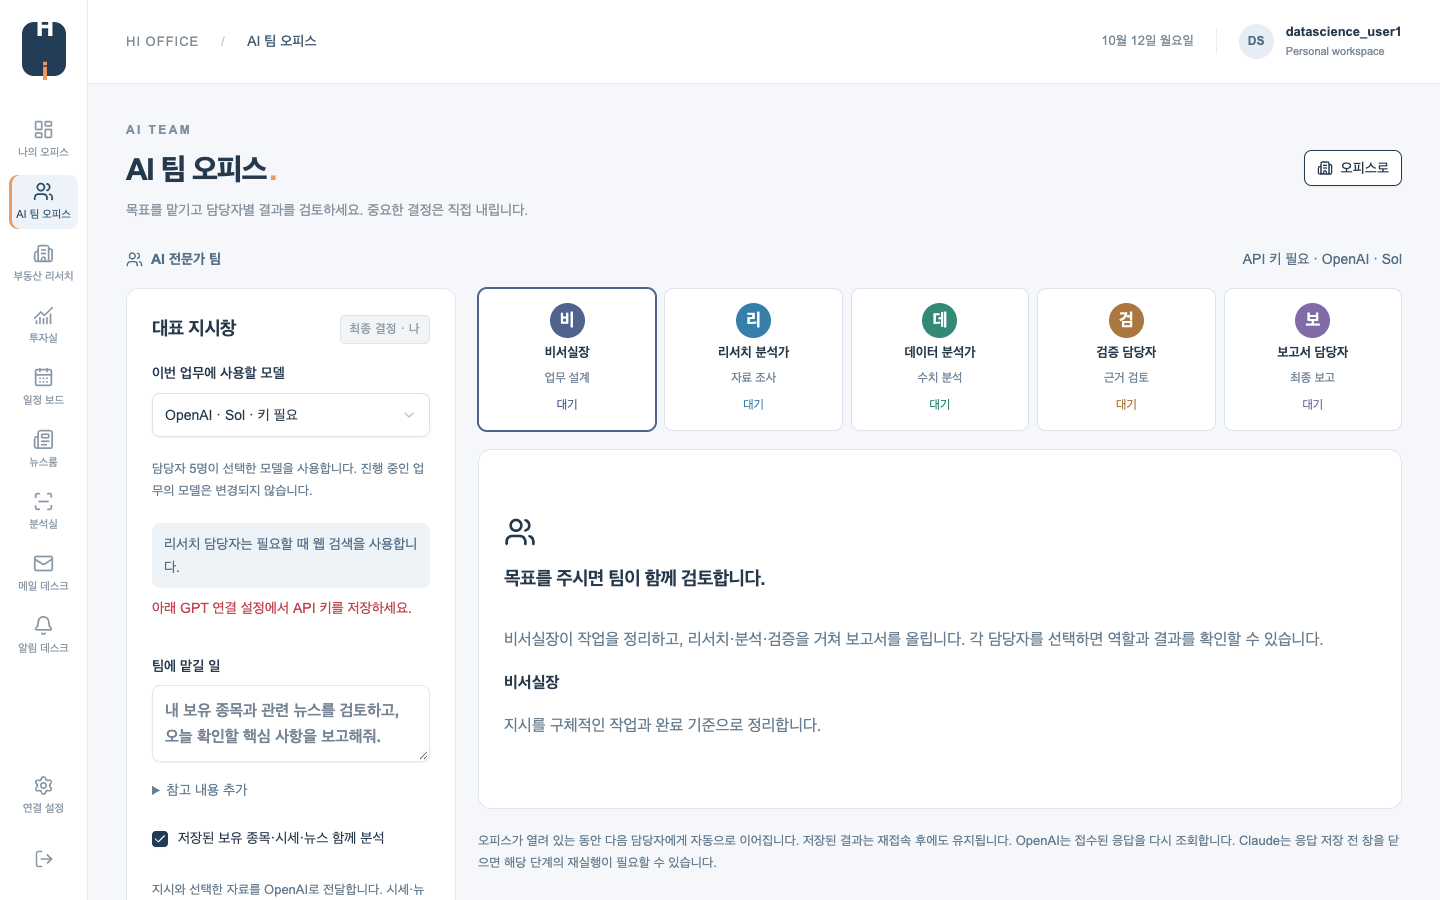
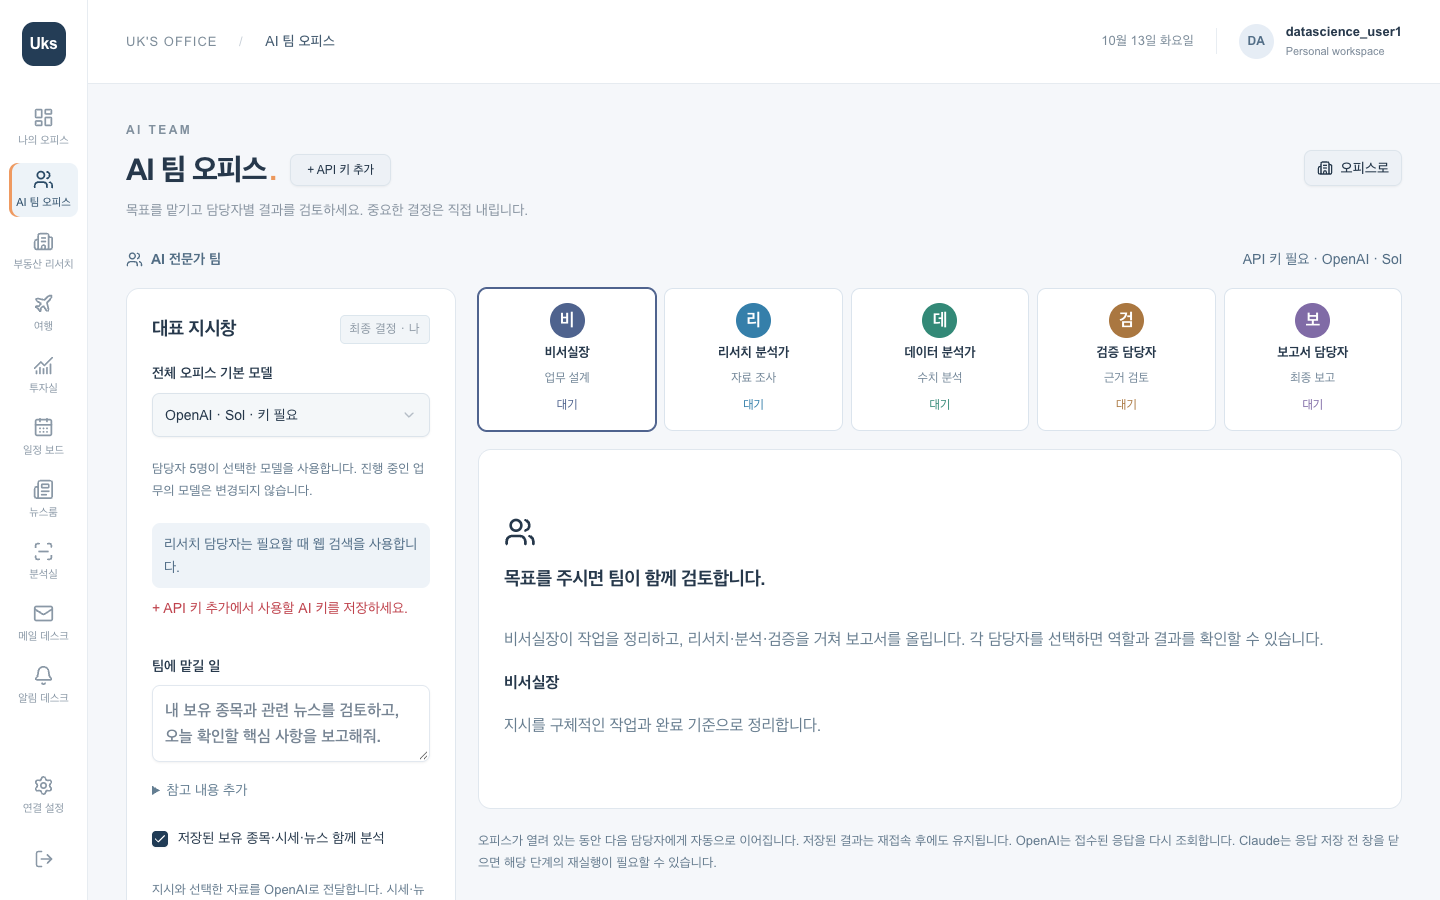
Refresh UK'S OFFICE portfolio entry with 8 current screenshots
- Rename HI OFFICE to UK'S OFFICE to match the app
- Describe travel planner, real estate, AI key storage, signup and admin logs
- Replace 4 old screenshots with 8 captured from the current build
- Add the screenshot grid to the About Me project card

diff --git a/about_me/index.html b/about_me/index.html
@@ -18,6 +18,11 @@
     .project-card p { margin: 0.3rem 0; font-size: 0.95rem; color: #555; }
     .tech-tags { margin-top: 0.5rem; }
     .tech-tags .tag { font-size: 0.8rem; background: #e8f4fd; color: #0077cc; }
+    .shots { display: grid; grid-template-columns: repeat(2, minmax(0, 1fr)); gap: 10px; margin-top: 0.8rem; }
+    .shots figure { margin: 0; }
+    .shots img { width: 100%; height: auto; display: block; border: 1px solid #e5e5e5; border-radius: 6px; }
+    .shots figcaption { font-size: 0.8rem; color: #777; text-align: center; margin-top: 4px; }
+    @media (max-width: 560px) { .shots { grid-template-columns: 1fr; } }
   </style>
 </head>
 <body>
@@ -70,11 +75,24 @@
 <h2>포트폴리오 프로젝트</h2>
 
 <div class="project-card">
-  <h3>HI OFFICE — 3D 개인 업무 오피스</h3>
-  <p>3D 오피스 공간에서 캐릭터를 움직여 각 업무실로 들어가는 개인 업무 대시보드. 코스피200 전 종목을 추세·모멘텀·거래량·가격 위치·변동성 5개 팩터로 점수화한 단기 매매 후보 랭킹과 5년 인터랙티브 차트, 분야별 뉴스 수집·핵심 요약, 월간 일정·TO-DO, 5명의 역할별 AI 분석가가 단계별로 보고서를 만드는 AI 팀(GPT / Claude), 아파트 실거래·매물 비교 기능을 제공합니다.</p>
+  <h3>UK'S OFFICE — 3D 개인 업무 오피스</h3>
+  <p>3D 오피스 공간에서 캐릭터를 움직여 각 업무실로 들어가는 개인 업무 대시보드. 코스피200 전 종목을 추세·모멘텀·거래량·가격 위치·변동성 5개 팩터로 점수화한 단기 매매 후보 랭킹과 5년 인터랙티브 차트, 보유 종목 평가손익, 분야별 뉴스 수집·핵심 요약, 월간 일정·TO-DO, 5명의 역할별 AI 분석가가 단계별로 보고서를 만드는 AI 팀(ChatGPT / Claude / Gemini)을 제공합니다.</p>
+  <p>여행 플래너는 Kiwi.com 실시간 운임으로 직항 왕복 최저가를 비교하고 관광 명소·맛집·도보 동선을 묶은 일정표를 만들며, 부동산 리서치는 59·84㎡ 실거래와 중개사 매물, 로얄동 후보를 비교합니다.</p>
+  <p>Vercel + Supabase로 배포한 웹 서비스로, 이메일 가입 즉시 이용할 수 있고 관리자 화면에서 사용자 로그 확인과 계정 차단을 합니다. API 키는 계정별로 암호화해 저장합니다.</p>
   <div class="tech-tags">
-    <span class="tag">코스피200 랭킹</span><span class="tag">인터랙티브 차트</span><span class="tag">뉴스 요약</span><span class="tag">일정 관리</span><span class="tag">AI 분석가 팀</span><span class="tag">부동산 리서치</span>
+    <span class="tag">Next.js</span><span class="tag">TypeScript</span><span class="tag">Three.js</span><span class="tag">Supabase</span><span class="tag">Vercel</span><span class="tag">코스피200 랭킹</span><span class="tag">AI 분석가 팀</span><span class="tag">여행 플래너</span><span class="tag">부동산 리서치</span>
   </div>
+  <div class="shots">
+    <figure><a href="https://raw.githubusercontent.com/uksnotes/portfolio/main/uksnote_office/examples/example1.png" target="_blank"><img src="https://raw.githubusercontent.com/uksnotes/portfolio/main/uksnote_office/examples/example1.png" alt="Office" loading="lazy"></a><figcaption>3D 오피스</figcaption></figure>
+    <figure><a href="https://raw.githubusercontent.com/uksnotes/portfolio/main/uksnote_office/examples/example2.png" target="_blank"><img src="https://raw.githubusercontent.com/uksnotes/portfolio/main/uksnote_office/examples/example2.png" alt="AI Team" loading="lazy"></a><figcaption>AI 팀 오피스</figcaption></figure>
+    <figure><a href="https://raw.githubusercontent.com/uksnotes/portfolio/main/uksnote_office/examples/example3.png" target="_blank"><img src="https://raw.githubusercontent.com/uksnotes/portfolio/main/uksnote_office/examples/example3.png" alt="Ranking" loading="lazy"></a><figcaption>코스피200 랭킹</figcaption></figure>
+    <figure><a href="https://raw.githubusercontent.com/uksnotes/portfolio/main/uksnote_office/examples/example4.png" target="_blank"><img src="https://raw.githubusercontent.com/uksnotes/portfolio/main/uksnote_office/examples/example4.png" alt="Chart" loading="lazy"></a><figcaption>5년 인터랙티브 차트</figcaption></figure>
+    <figure><a href="https://raw.githubusercontent.com/uksnotes/portfolio/main/uksnote_office/examples/example5.png" target="_blank"><img src="https://raw.githubusercontent.com/uksnotes/portfolio/main/uksnote_office/examples/example5.png" alt="Portfolio" loading="lazy"></a><figcaption>투자실</figcaption></figure>
+    <figure><a href="https://raw.githubusercontent.com/uksnotes/portfolio/main/uksnote_office/examples/example6.png" target="_blank"><img src="https://raw.githubusercontent.com/uksnotes/portfolio/main/uksnote_office/examples/example6.png" alt="News" loading="lazy"></a><figcaption>뉴스룸</figcaption></figure>
+    <figure><a href="https://raw.githubusercontent.com/uksnotes/portfolio/main/uksnote_office/examples/example7.png" target="_blank"><img src="https://raw.githubusercontent.com/uksnotes/portfolio/main/uksnote_office/examples/example7.png" alt="Travel" loading="lazy"></a><figcaption>여행 · 항공권 비교</figcaption></figure>
+    <figure><a href="https://raw.githubusercontent.com/uksnotes/portfolio/main/uksnote_office/examples/example8.png" target="_blank"><img src="https://raw.githubusercontent.com/uksnotes/portfolio/main/uksnote_office/examples/example8.png" alt="Real Estate" loading="lazy"></a><figcaption>부동산 리서치</figcaption></figure>
+  </div>
+  <p><a href="https://github.com/uksnotes/portfolio/tree/main/uksnote_office" target="_blank">코드 보기</a></p>
 </div>
 
 <div class="project-card">

diff --git a/README.md b/README.md
@@ -12,23 +12,29 @@
 
 ## Projects
 
-### 1. HI OFFICE — 3D 개인 업무 오피스
+### 1. UK'S OFFICE — 3D 개인 업무 오피스
 
-> 투자 분석·뉴스·일정·AI 팀을 하나로 묶은 로컬 3D 워크스페이스
+> 투자 분석·뉴스·일정·여행·부동산·AI 팀을 하나로 묶은 3D 웹 워크스페이스 (Vercel + Supabase 배포)
 
-3D 오피스 공간에서 캐릭터를 움직여 각 업무실로 들어가는 개인 업무 대시보드입니다. 주식 분석, 뉴스 확인, 일정 관리, AI 리서치, 부동산 조사처럼 매일 반복하는 업무를 한 화면에서 처리할 수 있도록 구성했습니다.
+3D 오피스 공간에서 캐릭터를 움직여 각 업무실로 들어가는 개인 업무 대시보드입니다. 주식 분석, 뉴스 확인, 일정 관리, 여행 계획, 부동산 조사, AI 리서치처럼 매일 반복하는 업무를 한 화면에서 처리할 수 있도록 구성했습니다. 이메일로 가입하면 바로 자기 오피스를 쓸 수 있는 웹 서비스로 배포했습니다.
 
 **주요 기능:**
 - **코스피200 단기 매매 후보 랭킹**: 코스피200 전 종목의 일봉 데이터를 수집해 추세(30%)·모멘텀(25%)·거래량(20%)·가격 위치(15%)·변동성(10%) 5개 팩터로 단기 점수를 산출하고 순위를 매깁니다. 종목별 5일 수익률, RSI, 거래량 배수와 함께 "매수 조건 관찰 / 과열·추격 보류 / 추세 회복 대기" 같은 상태를 표시합니다.
 - **5년 인터랙티브 차트**: 랭킹에서 종목을 클릭하면 확대·축소가 가능한 5년 캔들 차트와 단기 지표를 보여주고, 매수 후보 구간·손절선·매도 목표 가격을 조건부 시나리오로 제시합니다.
-- **보유 종목 분석**: 보유·관심종목을 등록(CSV 업로드 지원)하면 현재가를 조회하고, 종목별 점수·가중치와 1년/5년 시세 흐름을 함께 확인할 수 있습니다.
+- **보유 종목 분석**: 보유·관심종목을 등록하면 현재가를 조회해 평가금액·평가손익을 계산하고, 종목별 단기 점수와 1년/5년 시세 흐름을 함께 확인합니다.
 - **뉴스 수집·핵심 요약**: 경제·사회·IT·세계·랭킹 5개 분야의 주요 기사를 최대 10건씩 가져와 본문에서 핵심 1~2문장과 주요 키워드를 자동으로 추립니다.
 - **월간 일정·TO-DO**: 월간 캘린더에 일정을 등록하고, 오늘의 할 일을 추가·완료 처리하며 진행 현황을 메인 화면에서 바로 확인합니다.
-- **역할별 AI 분석가 팀**: 업무를 지시하면 비서실장(업무 설계) → 리서치 분석가(자료 조사·웹 검색) → 데이터 분석가(수치 분석) → 검증 담당자(근거 검토) → 보고서 담당자(최종 보고) 순으로 5명의 AI가 단계별로 작업해 보고서를 만듭니다. GPT / Claude 모델을 선택할 수 있고, 저장된 보유 종목·시세·뉴스를 함께 분석에 활용합니다.
-- **아파트 실거래·매물 비교**: 아파트 단지를 검색해 실거래가와 현재 매물을 비교하고, 로얄동·로얄층 후보를 정리합니다.
+- **역할별 AI 분석가 팀**: 업무를 지시하면 비서실장(업무 설계) → 리서치 분석가(자료 조사·웹 검색) → 데이터 분석가(수치 분석) → 검증 담당자(근거 검토) → 보고서 담당자(최종 보고) 순으로 5명의 AI가 단계별로 작업해 보고서를 만듭니다. 저장된 보유 종목·시세·뉴스를 함께 분석에 활용합니다.
+- **여행 플래너**: Kiwi.com 실시간 운임으로 직항 왕복 최저가 TOP 3를 찾고, 한 항공사 왕복과 서로 다른 항공사 편도 2장 조합을 가격순으로 비교합니다. AI가 관광 명소·맛집·도보 동선을 묶은 날짜별 일정표와 지도를 만듭니다.
+- **아파트 실거래·매물 비교**: 단지를 검색해 59㎡·84㎡ 실거래와 중개사 매물 TOP 3를 비교하고, 검색 근거로 로얄동 후보를 정리합니다.
+- **공통 AI 키 관리**: ChatGPT·Claude·Gemini API 키를 계정별로 암호화(AES-GCM) 저장하고, 등록한 서비스만 골라 사용합니다.
+- **회원·관리자**: 이메일 가입 즉시 이용, 관리자 화면에서 사용자 로그(가입·로그인·실패·요청) 확인과 문제 계정 차단. 서버 AI 키는 관리자만 쓰고 다른 사용자는 각자 키를 등록합니다.
+
+**Tech Stack:** `Next.js` `React` `TypeScript` `Three.js` `Lightweight Charts` `Leaflet` `Supabase (Postgres·Auth)` `Vercel` `OpenAI / Claude / Gemini API`
 
 ```
-3D 오피스 → 업무실 선택 → [분석실 | 투자실 | 뉴스룸 | 일정 보드 | AI 팀 오피스 | 부동산 리서치]
+3D 오피스 → 업무실 선택 → [분석실 | 투자실 | 뉴스룸 | 일정 보드 | AI 팀 오피스 | 여행 | 부동산 리서치]
+브라우저 → Vercel (Next.js API) → Supabase (데이터·회원·사용자 로그 / 인증)
 ```
 
 <details open>
@@ -38,9 +44,17 @@
 |:---:|:---:|
 | ![Office](https://github.com/uksnotes/portfolio/raw/main/uksnote_office/examples/example1.png) | ![AITeam](https://github.com/uksnotes/portfolio/raw/main/uksnote_office/examples/example2.png) |
 
-| 코스피200 랭킹 | 뉴스룸 |
+| 코스피200 랭킹 | 5년 인터랙티브 차트 |
 |:---:|:---:|
-| ![Ranking](https://github.com/uksnotes/portfolio/raw/main/uksnote_office/examples/example3.png) | ![News](https://github.com/uksnotes/portfolio/raw/main/uksnote_office/examples/example4.png) |
+| ![Ranking](https://github.com/uksnotes/portfolio/raw/main/uksnote_office/examples/example3.png) | ![Chart](https://github.com/uksnotes/portfolio/raw/main/uksnote_office/examples/example4.png) |
+
+| 투자실 | 뉴스룸 |
+|:---:|:---:|
+| ![Portfolio](https://github.com/uksnotes/portfolio/raw/main/uksnote_office/examples/example5.png) | ![News](https://github.com/uksnotes/portfolio/raw/main/uksnote_office/examples/example6.png) |
+
+| 여행 · 항공권 비교 | 부동산 리서치 |
+|:---:|:---:|
+| ![Travel](https://github.com/uksnotes/portfolio/raw/main/uksnote_office/examples/example7.png) | ![RealEstate](https://github.com/uksnotes/portfolio/raw/main/uksnote_office/examples/example8.png) |
 
 </details>
 

diff --git a/uksnote_office/examples/README.md b/uksnote_office/examples/README.md
@@ -1,3 +1,16 @@
-# examples — 참고용 예제
+# examples — 화면 스크린샷
+
+포트폴리오 README와 About Me에서 쓰는 화면입니다. 데모 계정(`datascience_user1`)으로 촬영했고 실제 사용자 정보는 없습니다.
+
+| 파일 | 화면 |
+| --- | --- |
+| `example1.png` | 3D 오피스 (나의 오피스) |
+| `example2.png` | AI 팀 오피스 |
+| `example3.png` | 분석실 · 코스피200 랭킹 |
+| `example4.png` | 5년 인터랙티브 차트 |
+| `example5.png` | 투자실 |
+| `example6.png` | 뉴스룸 |
+| `example7.png` | 여행 · 항공권 비교 |
+| `example8.png` | 부동산 리서치 |
 
 이전 D1 예제는 `legacy/cloudflare-sites/examples-d1/`로 옮겼습니다.
